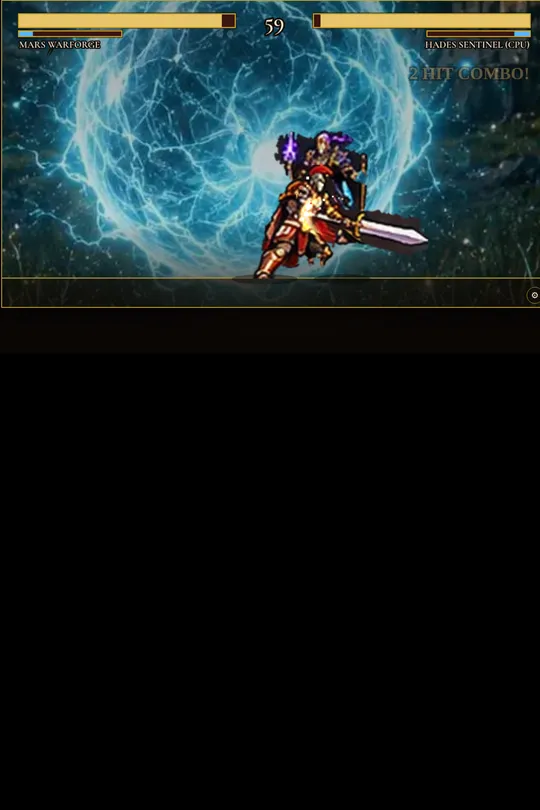
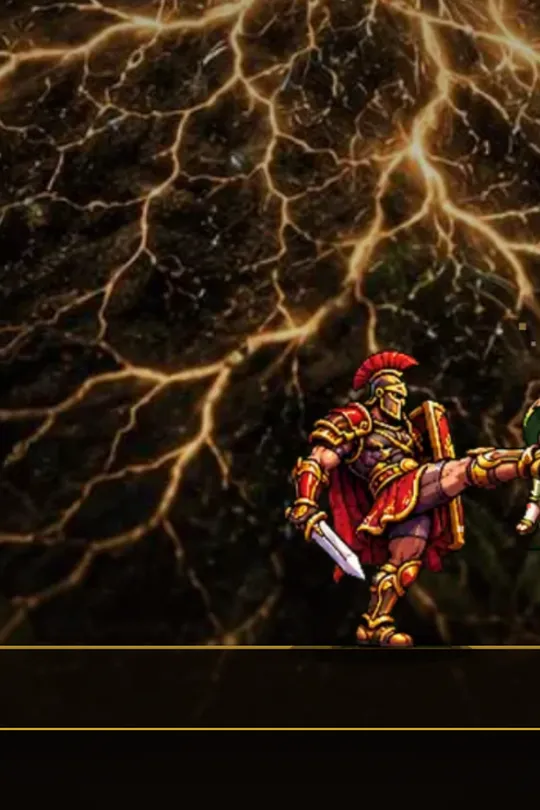
Roman Arena: real frame-by-frame animation for all 12 fighters (idle, walk, punches, kicks, hit, knockdown, special, victory)
Claude-Session: https://claude.ai/code/session_01T4Ncn2a53aA1ppsRCuEJwC

diff --git a/fight/game.js b/fight/game.js
@@ -170,13 +170,13 @@
   /* ================= art ================= */
   const Q = '../quest/img/';
   const SPR = img(Q + 'sprites.webp'), BOSSIMG = img(Q + 'boss.webp'), ENEMYIMG = img(Q + 'enemies.webp'), ELITEIMG = img(Q + 'elites.webp'), MARCUSIMG = img(Q + 'marcus.webp');
-  const LATLAS = {"fx2":{"colossus":[[635,416,63,70,31,35]],"medusa":[[700,416,54,70,27,35]],"chiron":[[756,416,74,70,37,35]],"diana":[[832,416,194,70,97,35]],"hades":[[1028,416,60,70,30,35]]},"g_colossus":{"idle":[[361,171,91,120,45,120],[0,416,70,94,32,94]],"walk":[[0,416,70,94,32,94],[1536,296,78,98,37,98]],"jump":[[1536,296,78,98,37,98]],"light":[[1365,296,79,105,39,105],[1446,296,88,101,43,101]],"heavy":[[1446,296,88,101,43,101],[1854,296,92,97,43,97]],"special":[[140,416,91,92,48,92]],"hurt":[[560,416,73,80,35,80]]},"g_medusa":{"idle":[[454,171,81,120,41,120],[145,296,69,117,34,117]],"walk":[[454,171,81,120,41,120],[145,296,69,117,34,117]],"jump":[[1948,296,80,97,34,97]],"light":[[1948,296,80,97,34,97],[1616,296,83,98,36,98]],"heavy":[[1616,296,83,98,36,98],[326,416,69,85,30,85]],"special":[[397,416,68,85,25,85]],"hurt":[[326,416,69,85,30,85]]},"g_minotaur":{"idle":[[537,171,120,120,50,120],[1706,0,144,124,66,124]],"walk":[[537,171,120,120,50,120],[1706,0,144,124,66,124]],"jump":[[1376,0,125,127,62,127]],"light":[[1376,0,125,127,62,127],[1201,0,173,131,94,131]],"heavy":[[1701,296,151,98,53,98]],"special":[[1007,0,192,135,95,135]],"hurt":[[1201,0,173,131,94,131]]},"g_mars":{"idle":[[659,171,105,120,34,120]],"walk":[[659,171,105,120,34,120],[530,296,127,115,46,115]],"jump":[[216,296,147,116,66,116]],"light":[[170,171,189,122,14,122]],"heavy":[[530,296,127,115,46,115],[883,296,118,110,58,110]],"special":[[883,296,118,110,58,110]],"hurt":[[216,296,147,116,66,116]]},"g_vulcan":{"idle":[[766,171,131,120,31,120],[1503,0,112,125,31,125]],"walk":[[766,171,131,120,31,120],[1503,0,112,125,31,125]],"jump":[[1503,0,112,125,31,125]],"light":[[1003,296,158,109,46,109]],"heavy":[[0,171,168,123,87,123]],"special":[[332,0,332,156,165,156]],"hurt":[[1503,0,112,125,31,125]]},"g_chiron":{"idle":[[899,171,98,120,49,120]],"walk":[[1267,296,96,106,48,106],[72,416,66,93,35,92]],"jump":[[1163,296,102,108,54,108]],"light":[[1768,171,137,118,41,118]],"heavy":[[1267,296,96,106,48,106]],"special":[[659,296,128,115,69,114]],"hurt":[[72,416,66,93,35,92]]},"g_diana":{"idle":[[1672,171,94,119,35,119]],"walk":[[1672,171,94,119,35,119],[233,416,91,91,27,91]],"jump":[[233,416,91,91,27,91]],"light":[[1672,171,94,119,35,119],[999,171,131,120,21,120]],"heavy":[[467,416,91,85,39,84]],"special":[[999,171,131,120,21,120]],"hurt":[[233,416,91,91,27,91]]},"g_cerberus":{"idle":[[1132,171,145,120,72,119],[365,296,163,116,79,115]],"walk":[[0,296,143,118,63,117],[1279,171,189,120,71,120]],"jump":[[365,296,163,116,79,115]],"light":[[1279,171,189,120,71,120]],"heavy":[[365,296,163,116,79,115]],"special":[[0,0,330,169,164,169]],"hurt":[[0,296,143,118,63,117]]},"g_hades":{"idle":[[1470,171,99,120,40,120],[789,296,92,114,26,113]],"walk":[[1852,0,104,124,31,123],[1571,171,99,120,40,119]],"jump":[[666,0,94,142,38,142]],"light":[[1571,171,99,120,40,119]],"heavy":[[1617,0,87,125,41,124],[762,0,113,137,50,137]],"special":[[877,0,128,137,63,137]],"hurt":[[1852,0,104,124,31,123]]}};
-  const LEGENDIMG = img('legends.webp');
-  const PATLAS = {"p_colossus":{"idle":[[0,0,244,320,140,319]]},"p_medusa":{"idle":[[246,0,221,320,99,320]]},"p_minotaur":{"idle":[[469,0,292,320,106,319]]},"p_pegasus":{"idle":[[763,0,310,320,155,319]]},"p_helios":{"idle":[[1075,0,311,320,155,319]]},"p_mars":{"idle":[[1388,0,239,320,119,319]]},"p_neptune":{"idle":[[1629,0,307,320,143,319]]},"p_vulcan":{"idle":[[0,322,302,320,133,319]]},"p_chiron":{"idle":[[304,322,235,320,117,319]]},"p_diana":{"idle":[[541,322,200,320,102,319]]},"p_cerberus":{"idle":[[743,322,289,320,144,319]]},"p_hades":{"idle":[[1034,322,241,320,110,319]]}};
+  const LATLAS = {};
+  const PATLAS = {};
   const NATIVE = {"colossus":1,"medusa":1,"minotaur":1,"pegasus":1,"helios":1,"mars":-1,"neptune":1,"vulcan":1,"chiron":-1,"diana":1,"cerberus":1,"hades":1};   // which way each portrait faces in the art
-  const PORTIMG = img('portraits.webp');
-  const ALL = Object.assign({}, ATLAS, EATLAS, XATLAS, MATLAS, LATLAS, PATLAS);
-  const imgFor = (set) => (PATLAS[set] ? PORTIMG : LATLAS[set] ? LEGENDIMG : set === 'boss' || set === 'bfx' ? BOSSIMG : MATLAS[set] ? MARCUSIMG : XATLAS[set] ? ELITEIMG : EATLAS[set] ? ENEMYIMG : SPR);
+  const FATLAS = {"f_mars":{"idle":[[1689,673,136,200,70,200],[1827,673,127,200,64,200]],"walk":[[741,1079,114,199,60,199],[1689,673,136,200,70,200],[1562,1079,114,198,62,198],[1689,673,136,200,70,200]],"jump":[[1562,1079,114,198,62,198]],"light":[[0,2062,161,187,72,187]],"heavy":[[753,2251,199,180,92,180]],"lkick":[[0,1676,164,192,66,192]],"hkick":[[166,1676,194,192,62,192]],"hurt":[[1337,2062,172,184,72,184]],"ko":[[1337,2062,172,184,72,184],[782,2768,239,64,119,64]],"special":[[1385,0,197,220,96,220]],"victory":[[857,1079,147,199,70,199]]},"f_colossus":{"idle":[[0,877,137,200,88,200],[139,877,129,200,80,200]],"walk":[[1811,1079,161,197,92,197],[0,877,137,200,88,200],[326,1281,140,196,92,196],[0,877,137,200,88,200]],"jump":[[326,1281,140,196,92,196]],"light":[[1755,1870,196,188,100,188]],"heavy":[[1734,2062,220,182,94,182]],"lkick":[[656,1480,146,193,92,193]],"hkick":[[1357,1870,227,189,90,189]],"hurt":[[614,2062,182,186,114,186]],"ko":[[614,2062,182,186,114,186],[1023,2768,223,63,111,63]],"special":[[1349,243,224,211,114,211]],"victory":[[1575,243,161,210,102,210]]},"f_medusa":{"idle":[[270,877,125,200,61,200],[1006,1079,139,199,61,199]],"walk":[[1793,1281,121,194,61,194],[270,877,125,200,61,200],[1248,1281,131,195,69,195],[270,877,125,200,61,200]],"jump":[[1248,1281,131,195,69,195]],"light":[[1546,2251,163,178,71,178]],"heavy":[[1183,2435,209,168,83,168]],"lkick":[[798,2062,123,185,55,185]],"hkick":[[923,2062,205,185,57,185]],"hurt":[[1656,2435,138,162,83,162]],"ko":[[1656,2435,138,162,83,162],[1507,2768,211,59,105,59]],"special":[[211,243,183,215,85,215]],"victory":[[1739,1676,135,190,69,190]]},"f_minotaur":{"idle":[[397,877,158,200,75,200],[929,461,146,205,75,205]],"walk":[[0,1281,137,197,63,197],[397,877,158,200,75,200],[468,1281,136,196,59,196],[397,877,158,200,75,200]],"jump":[[468,1281,136,196,59,196]],"light":[[1511,2062,221,183,91,183]],"heavy":[[163,2062,241,187,113,187]],"lkick":[[606,1281,134,196,71,196]],"hkick":[[742,1281,233,196,77,196]],"hurt":[[804,1480,177,193,85,193]],"ko":[[804,1480,177,193,85,193],[533,2768,247,69,123,69]],"special":[[437,461,244,208,117,208]],"victory":[[1738,243,186,210,103,210]]},"f_vulcan":{"idle":[[557,877,155,200,74,200],[933,673,153,201,74,201]],"walk":[[1774,461,154,202,70,202],[557,877,155,200,74,200],[1147,1079,167,199,80,199],[557,877,155,200,74,200]],"jump":[[1147,1079,167,199,80,199]],"light":[[954,2251,219,180,86,180]],"heavy":[[0,1870,243,190,136,190]],"lkick":[[362,1676,196,192,78,192]],"hkick":[[560,1676,238,192,80,192]],"hurt":[[0,1480,174,194,86,194]],"ko":[[0,1480,174,194,86,194],[1411,2614,250,85,125,85]],"special":[[1088,673,231,201,120,201]],"victory":[[484,0,202,235,90,235]]},"f_chiron":{"idle":[[714,877,162,200,81,200],[878,877,167,200,85,200]],"walk":[[800,1676,176,192,93,192],[714,877,162,200,81,200],[1563,1676,174,191,97,191],[714,877,162,200,81,200]],"jump":[[1563,1676,174,191,97,191]],"light":[[978,1676,189,192,101,192]],"heavy":[[176,1480,237,194,85,194]],"lkick":[[0,461,199,210,61,210]],"hkick":[[683,461,244,208,61,208]],"hurt":[[1047,877,171,200,75,200]],"ko":[[1047,877,171,200,75,200],[1663,2614,254,79,127,79]],"special":[[1584,0,238,220,103,220]],"victory":[[956,0,190,225,89,225]]},"f_diana":{"idle":[[1220,877,131,200,69,200],[1321,673,130,201,69,201]],"walk":[[1678,1079,131,198,71,198],[1220,877,131,200,69,200],[1169,1676,137,192,75,192],[1220,877,131,200,69,200]],"jump":[[1169,1676,137,192,75,192]],"light":[[1586,1870,167,189,83,189]],"heavy":[[1711,2251,235,177,119,177]],"lkick":[[1381,1281,184,195,53,195]],"hkick":[[1567,1281,224,195,55,195]],"hurt":[[1175,2251,165,180,77,180]],"ko":[[1175,2251,165,180,77,180],[1248,2768,257,63,128,63]],"special":[[1148,0,235,224,81,224]],"victory":[[1824,0,150,216,71,216]]},"f_cerberus":{"idle":[[1353,877,244,200,122,200],[1316,1079,244,199,122,199]],"walk":[[0,2251,239,182,124,182],[1353,877,244,200,122,200],[510,2251,241,181,130,181],[1353,877,244,200,122,200]],"jump":[[510,2251,241,181,130,181]],"light":[[417,2435,248,175,126,175]],"heavy":[[241,2251,267,182,120,181]],"lkick":[[415,1480,239,194,124,194]],"hkick":[[245,1870,255,190,116,190]],"hurt":[[396,243,217,215,112,215]],"ko":[[396,243,217,215,112,215],[689,2614,268,136,134,136]],"special":[[0,0,239,241,122,241]],"victory":[[241,0,241,239,132,238]]},"f_hades":{"idle":[[1599,877,168,200,78,200],[1769,877,167,200,78,200]],"walk":[[502,1870,182,190,94,190],[1599,877,168,200,78,200],[983,1480,188,193,98,193],[1599,877,168,200,78,200]],"jump":[[983,1480,188,193,98,193]],"light":[[255,2614,216,146,68,146]],"heavy":[[473,2614,214,140,64,140]],"lkick":[[1077,461,199,203,58,203]],"hkick":[[1130,243,217,213,66,213]],"hurt":[[1796,2435,214,161,64,161]],"ko":[[1796,2435,214,161,64,161],[959,2614,212,123,106,123]],"special":[[0,673,211,202,92,202]],"victory":[[213,673,212,202,104,202]]},"f_pegasus":{"idle":[[0,1079,190,200,95,200],[1173,1480,194,193,99,193]],"walk":[[1369,1480,199,193,97,193],[0,1079,190,200,95,200],[1570,1480,197,193,97,193],[0,1079,190,200,95,200]],"jump":[[1570,1480,197,193,97,193]],"light":[[1453,673,234,201,93,201]],"heavy":[[427,673,284,202,107,202]],"lkick":[[1278,461,223,203,83,203]],"hkick":[[1503,461,269,203,95,203]],"hurt":[[406,2062,206,187,121,187]],"ko":[[406,2062,206,187,121,187],[257,2768,274,72,137,72]],"special":[[840,243,288,214,85,214]],"victory":[[0,243,209,216,105,216]]},"f_helios":{"idle":[[192,1079,180,200,90,200],[374,1079,183,200,94,200]],"walk":[[1769,1480,162,193,92,193],[192,1079,180,200,90,200],[686,1870,155,190,88,190],[192,1079,180,200,90,200]],"jump":[[686,1870,155,190,88,190]],"light":[[1308,1676,253,192,88,192]],"heavy":[[843,1870,272,190,90,190]],"lkick":[[1117,1870,238,190,94,190]],"hkick":[[977,1281,269,196,104,196]],"hurt":[[0,2435,204,177,120,177]],"ko":[[0,2435,204,177,120,177],[1173,2614,236,96,118,96]],"special":[[688,0,266,232,134,232]],"victory":[[713,673,218,202,114,202]]},"f_neptune":{"idle":[[559,1079,180,200,90,200],[139,1281,185,197,96,197]],"walk":[[1342,2251,202,180,106,180],[559,1079,180,200,90,200],[0,2614,253,152,114,152],[559,1079,180,200,90,200]],"jump":[[0,2614,253,152,114,152]],"light":[[206,2435,209,177,80,177]],"heavy":[[930,2435,251,170,90,170]],"lkick":[[667,2435,261,174,80,174]],"hkick":[[1394,2435,260,168,60,168]],"hurt":[[1130,2062,205,185,104,185]],"ko":[[1130,2062,205,185,104,185],[0,2768,255,75,127,75]],"special":[[615,243,223,215,122,215]],"victory":[[201,461,234,210,122,210]]}};
+  const FIGHTIMG = img('fighters.webp');
+  const ALL = Object.assign({}, ATLAS, EATLAS, XATLAS, MATLAS, FATLAS);
+  const imgFor = (set) => (FATLAS[set] ? FIGHTIMG : set === 'boss' || set === 'bfx' ? BOSSIMG : MATLAS[set] ? MARCUSIMG : XATLAS[set] ? ELITEIMG : EATLAS[set] ? ENEMYIMG : SPR);
   const PIXEL = new Set(['knight', 'archer', 'commander', 'priestess', 'warrior', 'fx']);
   function frameOf(set, anim, i) { const fr = ALL[set] && ALL[set][anim]; if (!fr) return null; return fr[((Math.floor(i) % fr.length) + fr.length) % fr.length]; }
   function spr(g, set, anim, i, x, y, face = 1, scale = 1, alpha = 1) {
@@ -193,34 +193,35 @@
   const H = (set, a, frames) => ({ set, a, f: frames });   // frames: list of frame indexes, or omitted for all
   function std(set) { return { idle: H(set, 'idle'), walk: H(set, 'walk'), jump: H(set, 'jump'), light: H(set, 'attack', [0, 1]), heavy: H(set, 'attack'), special: H(set, 'attack'), hurt: H(set, 'hurt'), ko: H(set, 'die'), victory: H(set, 'idle') }; }
   function elite(set) { return { idle: H(set, 'idle'), walk: H(set, 'walk'), jump: H(set, 'wind'), light: H(set, 'attack'), heavy: H(set, 'wind', [0]), heavyHit: H(set, 'attack'), special: H(set, 'special'), hurt: H(set, 'recover'), ko: null, victory: H(set, 'wind') }; }
+  const FA = (id) => { const s = 'f_' + id, a = {}; ['idle', 'walk', 'jump', 'light', 'heavy', 'lkick', 'hkick', 'special', 'hurt', 'ko', 'victory'].forEach((k) => { a[k] = H(s, k); }); return a; };
   const PT = (id) => { const a = { portrait: id }; ['idle', 'walk', 'jump', 'light', 'heavy', 'special', 'hurt', 'victory'].forEach((k) => { a[k] = H('p_' + id, 'idle'); }); a.ko = null; return a; };
   const LG = (id) => { const s = 'g_' + id; return { idle: H(s, 'idle'), walk: H(s, 'walk'), jump: H(s, 'jump'), light: H(s, 'light'), heavy: H(s, 'heavy'), special: H(s, 'special'), hurt: H(s, 'hurt'), ko: null, victory: H(s, 'special') }; };
   const ROSTER = [
     { id: 'marcus', name: 'Marcus Aurelius', title: 'The Tesla Legate', size: 1.0, speed: 250, hp: 100, anims: { idle: H('n3', 'idle'), walk: H('n3', 'walk'), jump: H('n3', 'jump'), light: H('n3', 'attack', [1, 2]), heavy: H('n3', 'attack'), special: H('n3', 'attack', [1]), hurt: H('n3', 'hurt'), ko: null, victory: H('n3', 'special') },
       special: { kind: 'proj', name: 'Lightning Wave', set: 'bfx', a: 'orb', sc: 1.0, speed: 520, col: ['#8fe6ff', '#ffffff', '#57b6ff'] }, quote: 'You have power over your mind, not outside events.' },
-    { id: 'mars', name: 'Mars Warforge', title: 'God of the Legions', size: 1.04, speed: 255, hp: 105, anims: PT('mars'),
+    { id: 'mars', name: 'Mars Warforge', title: 'God of the Legions', size: 1.04, speed: 255, hp: 105, anims: FA('mars'),
       special: { kind: 'dash', name: 'Crimson Cleave', dist: 320, col: ['#ff4a3d', '#ffd27a', '#ffffff'] }, quote: 'War is my forge, and you are the iron.' },
-    { id: 'colossus', name: 'Augustus Colossus', title: 'The Living Statue', size: 1.15, speed: 215, hp: 120, anims: PT('colossus'),
+    { id: 'colossus', name: 'Augustus Colossus', title: 'The Living Statue', size: 1.15, speed: 215, hp: 120, anims: FA('colossus'),
       special: { kind: 'proj', name: 'Thunder Fist', set: 'fx2', a: 'colossus', sc: 1.2, speed: 500, col: ['#57b6ff', '#ffffff', '#bfe6ff'] }, quote: 'Empires crumble. Marble endures.' },
-    { id: 'medusa', name: 'Medusa Technomancer', title: 'Gaze of Stone', size: 1.0, speed: 245, hp: 95, anims: PT('medusa'),
+    { id: 'medusa', name: 'Medusa Technomancer', title: 'Gaze of Stone', size: 1.0, speed: 245, hp: 95, anims: FA('medusa'),
       special: { kind: 'proj', name: 'Hex Sigil', set: 'fx2', a: 'medusa', sc: 1.1, speed: 430, col: ['#c070ff', '#ffffff', '#7b3fa0'] }, quote: 'Look at me. I insist.' },
-    { id: 'minotaur', name: 'Minotaur Engine', title: 'Beast of the Labyrinth', size: 1.1, speed: 235, hp: 115, anims: PT('minotaur'),
+    { id: 'minotaur', name: 'Minotaur Engine', title: 'Beast of the Labyrinth', size: 1.1, speed: 235, hp: 115, anims: FA('minotaur'),
       special: { kind: 'dash', name: 'Gore Charge', dist: 360, col: ['#ff9a3d', '#ffd27a', '#ffffff'] }, quote: 'Every maze ends with me.' },
-    { id: 'vulcan', name: 'Vulcan Forge', title: 'Smith of the Gods', size: 1.08, speed: 225, hp: 120, anims: PT('vulcan'),
+    { id: 'vulcan', name: 'Vulcan Forge', title: 'Smith of the Gods', size: 1.08, speed: 225, hp: 120, anims: FA('vulcan'),
       special: { kind: 'wave', name: 'Magma Hammer', col: ['#ff9a3d', '#ffd27a', '#ff4a1a'] }, quote: 'I forged the thunderbolts. I can forge your defeat.' },
-    { id: 'chiron', name: 'Chiron Astronomer', title: 'Archer of the Stars', size: 1.12, speed: 265, hp: 100, anims: PT('chiron'),
+    { id: 'chiron', name: 'Chiron Astronomer', title: 'Archer of the Stars', size: 1.12, speed: 265, hp: 100, anims: FA('chiron'),
       special: { kind: 'proj', name: 'Star Chart', set: 'fx2', a: 'chiron', sc: 1.0, speed: 460, col: ['#ffd27a', '#ffffff', '#e7a227'] }, quote: 'The stars told me how this ends.' },
-    { id: 'diana', name: 'Diana Hunter', title: 'Moon of the Forest', size: 1.0, speed: 280, hp: 90, anims: PT('diana'),
+    { id: 'diana', name: 'Diana Hunter', title: 'Moon of the Forest', size: 1.0, speed: 280, hp: 90, anims: FA('diana'),
       special: { kind: 'proj', name: 'Emerald Arrow', set: 'fx2', a: 'diana', sc: 1.2, speed: 760, col: ['#b6ff4a', '#ffffff', '#4ad84a'] }, quote: 'I never miss. I only wait.' },
-    { id: 'cerberus', name: 'Cerberus Unit', title: 'Hound of the Gate', size: 1.0, speed: 270, hp: 110, anims: PT('cerberus'),
+    { id: 'cerberus', name: 'Cerberus Unit', title: 'Hound of the Gate', size: 1.0, speed: 270, hp: 110, anims: FA('cerberus'),
       special: { kind: 'dash', name: 'Hellfire Pounce', dist: 340, col: ['#ff6a1a', '#ffd27a', '#ffffff'] }, quote: 'Three heads. Zero mercy.' },
-    { id: 'pegasus', name: 'Pegasus Drone', title: 'Skyfire Assault', size: 1.05, speed: 290, hp: 92, anims: PT('pegasus'),
+    { id: 'pegasus', name: 'Pegasus Drone', title: 'Skyfire Assault', size: 1.05, speed: 290, hp: 92, anims: FA('pegasus'),
       special: { kind: 'dash', name: 'Heavenfall Strike', dist: 380, col: ['#56c9ff', '#ffffff', '#bfe6ff'] }, quote: 'The sky was never your side of the arena.' },
-    { id: 'helios', name: 'Helios Orb', title: 'Solar Furnace', size: 0.95, speed: 240, hp: 98, hover: 26, anims: PT('helios'),
+    { id: 'helios', name: 'Helios Orb', title: 'Solar Furnace', size: 0.95, speed: 240, hp: 98, hover: 26, anims: FA('helios'),
       special: { kind: 'beam', name: 'Supernova Beam', len: 560, col: ['#ffc24b', '#ffffff', '#ffe28a'] }, quote: 'I do not fight. I simply shine.' },
-    { id: 'neptune', name: 'Neptune Leviathan', title: 'Abyssal Tide', size: 1.12, speed: 225, hp: 116, anims: PT('neptune'),
+    { id: 'neptune', name: 'Neptune Leviathan', title: 'Abyssal Tide', size: 1.12, speed: 225, hp: 116, anims: FA('neptune'),
       special: { kind: 'wave', name: 'Tsunami Surge', col: ['#27d8ff', '#ffffff', '#1f6bd8'] }, quote: 'The tide always returns. So do I.' },
-    { id: 'hades', name: 'Hades Sentinel', title: 'Keeper of Shadows', size: 1.05, speed: 235, hp: 105, anims: PT('hades'),
+    { id: 'hades', name: 'Hades Sentinel', title: 'Keeper of Shadows', size: 1.05, speed: 235, hp: 105, anims: FA('hades'),
       special: { kind: 'proj', name: 'Void Seal', set: 'fx2', a: 'hades', sc: 1.1, speed: 420, col: ['#a46bff', '#ffffff', '#5a2d82'] }, quote: 'Everyone comes to my kingdom eventually.' },
   ];
   const BODY_H = 190;   // every fighter is scaled so the standing pose is about this tall (times size)
@@ -471,7 +472,7 @@
     const A = f.ch.anims; let k = 'idle', frame = f.anim * 5;
     if (f.state === 'walk') { k = 'walk'; frame = f.anim * 7; }
     else if (f.state === 'jump') { k = 'jump'; frame = f.vy < 0 ? 0 : 1; }
-    else if (f.state === 'attack') { const m = MOVES[f.move], prog = clamp(f.t / (m.start + m.act + m.rec), 0, 0.999); k = f.move === 'lkick' ? 'light' : f.move === 'hkick' ? 'heavy' : f.move; if (f.move === 'heavy' && A.heavyHit && f.t >= m.start) k = 'heavyHit'; if (!f.onGround && f.move !== 'special') k = A.jump ? f.move : 'jump'; frame = prog; }
+    else if (f.state === 'attack') { const m = MOVES[f.move], prog = clamp(f.t / (m.start + m.act + m.rec), 0, 0.999); k = (f.move === 'lkick' || f.move === 'hkick') && !A[f.move] ? (f.move === 'lkick' ? 'light' : 'heavy') : f.move; if (f.move === 'heavy' && A.heavyHit && f.t >= m.start) k = 'heavyHit'; if (!f.onGround && f.move !== 'special') k = A.jump ? f.move : 'jump'; frame = prog; }
     else if (f.state === 'hurt' || f.state === 'block') { k = 'hurt'; frame = 0; }
     else if (f.state === 'ko') { k = A.ko ? 'ko' : 'hurt'; frame = Math.min(1, f.t * 1.8) * 0.999; }
     if (G.mode === 'over' && f === G.winner) { k = 'victory'; frame = f.anim * 2; }
@@ -489,7 +490,8 @@
     if (f.superOn || f.meter >= 100) { ctx.shadowColor = f.ch.special.col[0]; ctx.shadowBlur = 18 + (calm ? 0 : Math.sin(G.t * 14) * 6); }
     if (f.flash > 0 && !calm) ctx.filter = 'brightness(1.8)';
     else if (f.state === 'block') ctx.filter = 'brightness(1.15) saturate(0.6)';
-    spr(ctx, h.set, h.a, idx, f.x, f.y + 2, f.face, sc);
+    let lx = 0; if (f.state === 'attack' && f.move !== 'special') { const m = MOVES[f.move]; if (f.t >= m.start && f.t < m.start + m.act + m.rec * 0.5) lx = f.face * 10; }
+    spr(ctx, h.set, h.a, idx, f.x + lx, f.y + 2 - (f.ch.hover && f.state !== 'ko' ? f.ch.hover + Math.sin(f.anim * 3) * 6 : 0), f.face, sc);
     ctx.restore();
     if (f.state === 'block') { ctx.save(); ctx.globalAlpha = 0.5; ctx.strokeStyle = '#8fd8ff'; ctx.lineWidth = 4; ctx.beginPath(); ctx.arc(f.x + f.face * 30, f.y - BODY_H * f.ch.size * 0.55, 60, -1.1, 1.1); if (f.face < 0) { ctx.beginPath(); ctx.arc(f.x + f.face * 30, f.y - BODY_H * f.ch.size * 0.55, 60, Math.PI - 1.1, Math.PI + 1.1); } ctx.stroke(); ctx.restore(); }
     drawFx(f);

diff --git a/index.html b/index.html
@@ -221,7 +221,7 @@
 
     <ul class="library-grid">
       <li class="library-book">
-        <div class="library-cover"><img src="app-aurelious-fighters.webp" alt="Roman Arena game screenshot: Mars Warforge swings his sword at Hades Sentinel in an arena of lightning" loading="lazy"></div>
+        <div class="library-cover"><img src="app-aurelious-fighters.webp" alt="Roman Arena game screenshot: Mars Warforge lands a kick on Diana Hunter" loading="lazy"></div>
         <p class="library-format">Fighting Game · New</p>
         <h3 class="library-title">Roman Arena: Gods of the Machine</h3>
         <p class="library-sub">Thirteen legends in a one-on-one arena fighter: punches, kicks, chain combos, supers and combo breakers. Play the computer or a friend.</p>

diff --git a/fight/index.html b/fight/index.html
@@ -64,6 +64,6 @@
     </div>
   </section>
 </main>
-<script src="game.js?v=3"></script>
+<script src="game.js?v=4"></script>
 </body>
 </html>
